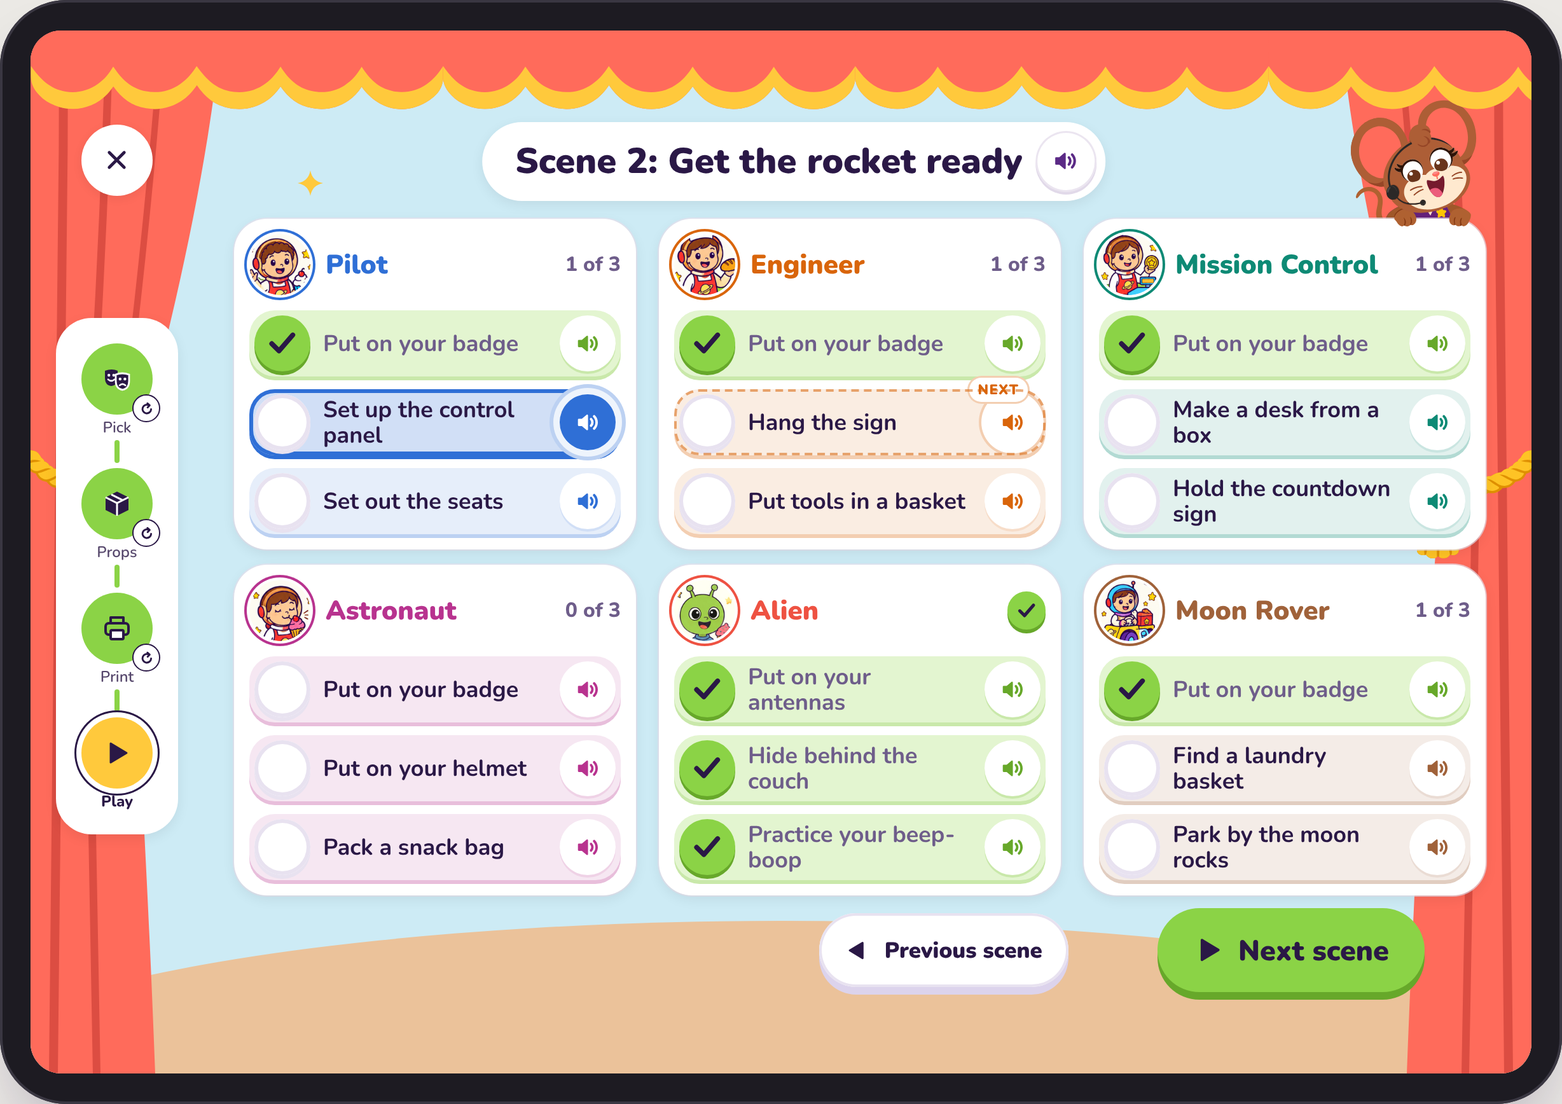
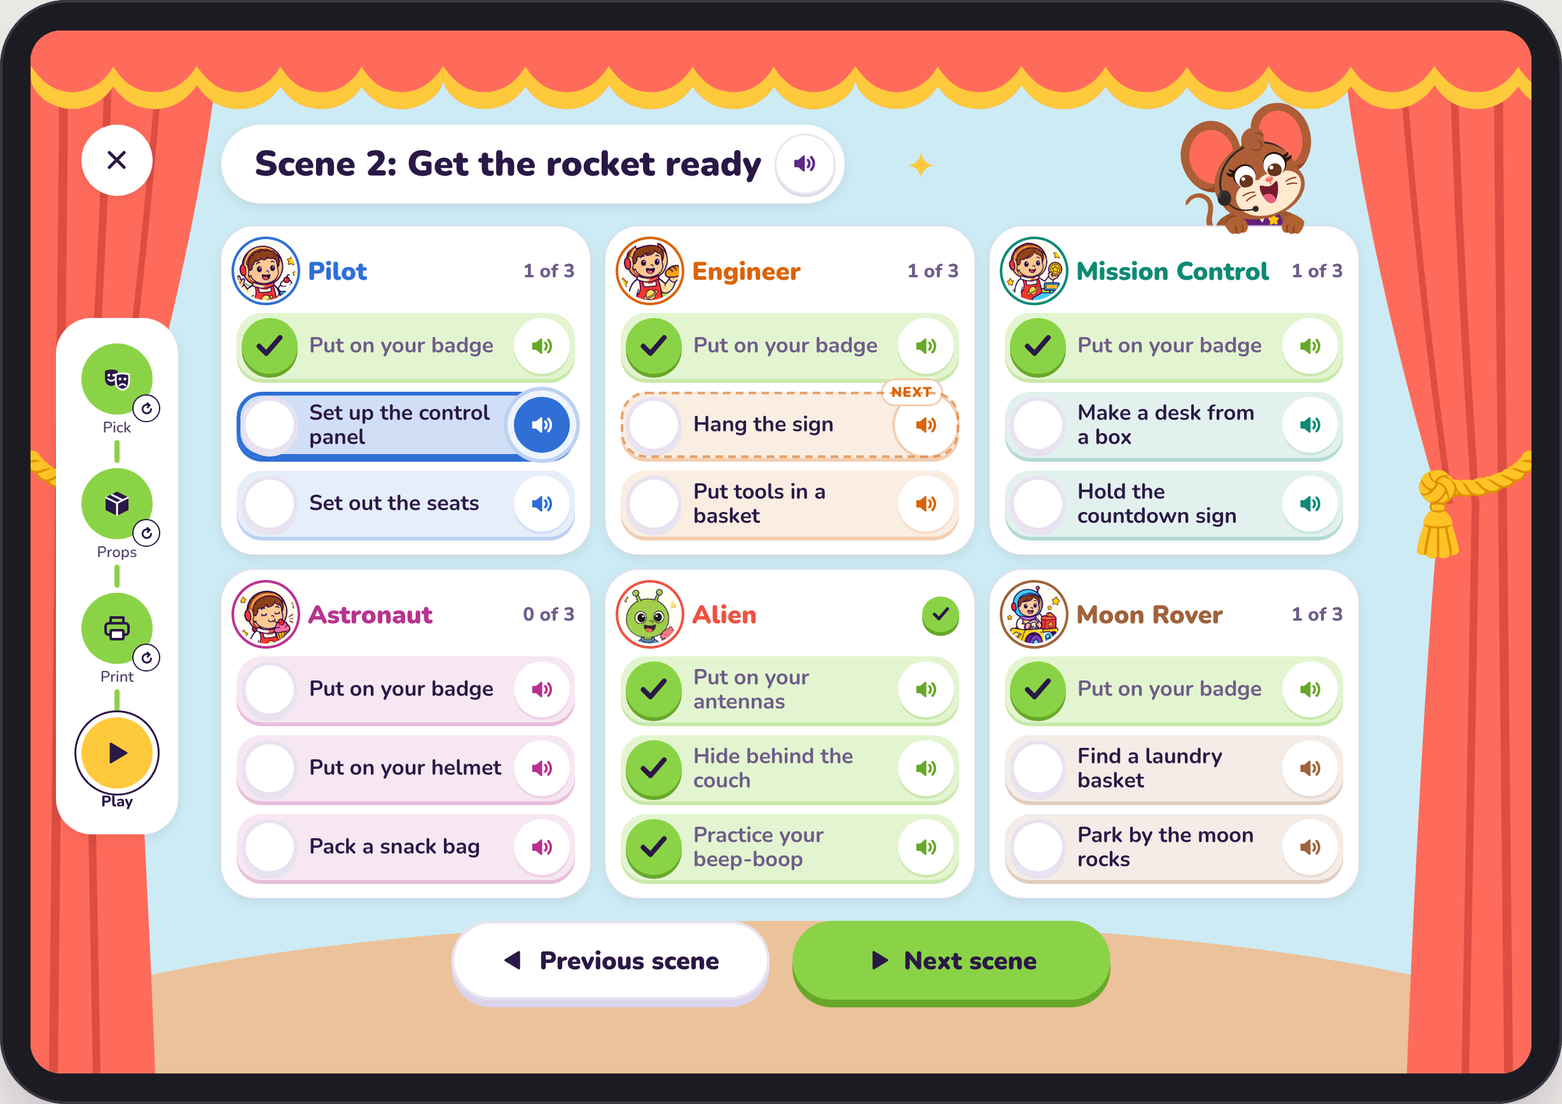
Mockups v2: Nutmeg on a card (iPad), checklist shelf (iPhone), centered equal Prev/Next
Claude-Session: https://claude.ai/code/session_01FLwTkaKeaGmxKG6tqX7cE2

Changed region(s): [[0.1238, 0.0933, 0.9593, 0.9332]]

diff --git a/design/mockups/checklist-scenes/index.html b/design/mockups/checklist-scenes/index.html
@@ -84,6 +84,7 @@ body{background:#ECEAE6;font-family:"SF Pro Rounded",ui-rounded,"Nunito",system-
 .tspk svg{width:44%;height:44%}
 
 /* checklist card */
+.card.pinned{box-shadow:none!important;border:1.5px solid var(--line)}
 .card{position:absolute;z-index:10;background:#fff;border-radius:26px;box-shadow:0 3px 10px rgba(0,0,0,.07),0 0 0 1px rgba(232,226,240,.7)}
 .ch{display:flex;align-items:center}
 .ch .pic{border-radius:50%;background:#fff;flex:none;box-shadow:0 0 0 2px #fff,0 0 0 4px var(--tint)}
@@ -115,6 +116,7 @@ body{background:#ECEAE6;font-family:"SF Pro Rounded",ui-rounded,"Nunito",system-
 .btn svg{flex:none}
 .btn.next{background:var(--lime);box-shadow:0 6px 0 var(--lime-shade)}
 .btn.prev{background:#fff;box-shadow:0 6px 0 #DCD3EC,inset 0 0 0 2px var(--line);color:var(--ink)}
+.phone .btn.glow{box-shadow:0 6px 0 var(--lime-shade),0 0 0 3px rgba(255,255,255,.9),0 0 0 6px rgba(139,211,70,.45)}
 .btn.glow{box-shadow:0 6px 0 var(--lime-shade),0 0 0 6px rgba(255,255,255,.9),0 0 0 10px rgba(139,211,70,.45)}
 
 /* peek */
@@ -181,40 +183,30 @@ body{background:#ECEAE6;font-family:"SF Pro Rounded",ui-rounded,"Nunito",system-
   <div class="grid">
     <div class="col" id="c1"><div class="ipad" id="s1"><div class="screen"></div></div>
       <div class="num">Screen 1 · iPad · 2 kids · setup</div>
-      <div class="cap"><h2>One checklist per role, side by side</h2>
-      <p>The scene title (with its 🔊) sits on top; the two role cards share the stage. Each item has a checkbox on the left and a 🔊 on the right (44 pt or more). Pilot's "Set up the control panel" is being read (filled 🔊, a solid outline in the role color); Engineer's "Hang the sign" was tapped while she talked, so it's queued (dashed). Nutmeg peeks over the top-right corner of the card area with her focus eyes on the rows. ◀ Previous scene is a white secondary pill beside the green ▶ Next scene.</p></div></div>
+      <div class="cap"><h2>One checklist per role, Nutmeg on a card</h2>
+      <p>The scene title (with its 🔊) sits top-left; the two role cards share the stage. Each item: checkbox left, 🔊 right (44 pt or more). Pilot's "Set up the control panel" is being read (filled 🔊, solid outline); Engineer's "Hang the sign" was tapped while she talked, so it's queued (dashed NEXT). Nutmeg peeks over the top edge of the right-hand card, paws on it, focus eyes on the rows. ◀ Previous scene and ▶ Next scene are one centered pair, same size and shape.</p></div></div>
     <div class="col" id="c2"><div class="ipad" id="s2"><div class="screen"></div></div>
       <div class="num">Screen 2 · iPad · 6 kids · setup</div>
-      <div class="cap"><h2>Two rows of three, same corner for Nutmeg</h2>
-      <p>The cards get the denser size (picture 48, text 18, rows 52 pt, checkbox and 🔊 still 44 pt). Nutmeg's peek fits in the top-right corner at a smaller size, on the top edge of the third card, under the valance. The ▶ / ◀ buttons move into the bottom-right corner below the grid. Alien's card is finished: its header shows the green check.</p></div></div>
+      <div class="cap"><h2>Two rows of three, Nutmeg on the top-right card</h2>
+      <p>Cards shrink to 290 pt so the grid clears the right curtain (picture 46, text 17, rows 52 pt, checkbox and 🔊 still 44 pt). Nutmeg sits on the top-right card (Mission Control): the only top-row card with no title above it, and her head fits under the valance. The centered button pair sits under the grid. Alien's card is finished: its header shows the green check.</p></div></div>
   </div>
   <div class="grid">
     <div class="col" id="c3"><div class="ipad" id="s3"><div class="screen"></div></div>
       <div class="num">Screen 3 · iPad · scenario moment</div>
       <div class="cap"><h2>Every box ticked: Nutmeg takes center stage</h2>
-      <p>The cards fold into a strip of role pictures with green checks ("All done!"). Nutmeg comes out whole and big, standing on the floor in the middle, and says the short "Pretend that…" line, shown beside her in a speech card with the hear-again button (the control bar's icon). The ▶ Next scene button gets a soft halo because now it's time to act it out and move on.</p></div></div>
-    <div class="col alt" id="c7"><div class="ipad" id="s7"><div class="screen"></div></div>
-      <div class="num">Alternate A · iPad · 6 kids · Nutmeg bottom-left</div>
-      <div class="cap"><h2>Option: she peeks up over the stage edge, under the rail</h2>
-      <p>Instead of the top-right corner, Nutmeg peeks up from below the front of the stage in the empty corner under the step rail, like a prompter. She never sits on a card or near the valance, but the corner under the rail is short (the rail ends at 655 pt), so she stays small (about 110 pt), she's far from the cards on the right, and she looks up instead of down at the rows.</p></div></div>
-  </div>
-  <div class="grid">
+      <p>The cards fold into a strip of role pictures with green checks ("All done!"). Nutmeg hops off the card and comes out whole and big on the floor, saying the short "Pretend that…" line, shown in a speech card with the hear-again button. The same centered button pair; ▶ Next scene gets a soft halo.</p></div></div>
     <div class="col phonecol" id="c4"><div class="phone" id="s4"><div class="screen"></div></div>
-      <div class="num">Screen 4 · iPhone · 2 kids</div>
-      <div class="cap"><h2>Cards stacked, Nutmeg on the top edge</h2>
-      <p>The title wraps to two lines on the left; Nutmeg peeks over the top edge of the card area on the right (the same corner as the iPad). Two cards fit without scrolling. ◀ is a 56 pt circle, ▶ Next scene the green pill.</p></div></div>
+      <div class="num">Screen 4 · iPhone · 2 kids · setup</div>
+      <div class="cap"><h2>Setup: the checklists live in a shelf</h2>
+      <p>Like the chat shelf (round 40): edge to edge, attached to the bottom, top corners rounded, white. Nutmeg peeks over the shelf's top edge (her live head, so no face avatar in the header). Header: the scene title and its 🔊. The role cards (pinned-card style: white with a hairline) fill the shelf; two fit without scrolling. The Prev / Next pair is pinned to the shelf's bottom.</p></div></div>
     <div class="col phonecol" id="c5"><div class="phone" id="s5"><div class="screen"></div></div>
       <div class="num">Screen 5 · iPhone · 6 kids (scrolled)</div>
-      <div class="cap"><h2>The list scrolls under her paws</h2>
-      <p>Nutmeg is pinned to the top edge of the scroll area; the cards slide under her paws. Here it's scrolled to Mission Control / Astronaut; the scroll bar and the cut-off card show there's more. Title and buttons stay put.</p></div></div>
+      <div class="cap"><h2>6 kids: the cards scroll inside the shelf</h2>
+      <p>The shelf, Nutmeg, the title and the buttons stay put; only the card list scrolls (scroll bar, soft fades at both ends, a cut-off card). Here it's scrolled to Mission Control / Astronaut.</p></div></div>
     <div class="col phonecol" id="c6"><div class="phone" id="s6"><div class="screen"></div></div>
       <div class="num">Screen 6 · iPhone · scenario</div>
-      <div class="cap"><h2>Big Nutmeg, short line, done strip</h2>
-      <p>The stage grows: Nutmeg fills the top, the line card with 🔊 sits under her, the finished roles collapse into a strip, and ▶ Next scene glows.</p></div></div>
-    <div class="col phonecol alt" id="c8"><div class="phone" id="s8"><div class="screen"></div></div>
-      <div class="num">Alternate B · iPhone · 6 kids</div>
-      <div class="cap"><h2>Option: she peeks up from the bottom bar</h2>
-      <p>Nutmeg sits in the bottom-left corner beside ◀ / ▶, looking up; the cards scroll behind her head. The title gets the full width (one line), but her head covers the start of the rows as they scroll past, so this costs more than it saves.</p></div></div>
+      <div class="cap"><h2>Scenario: the shelf slides away</h2>
+      <p>Transition: when the last box is ticked the shelf slides down off the screen and Nutmeg grows from her peek back to her whole body on the stage (one stageMove spring). The line card with 🔊 sits under her, the roles collapse into a done strip, and the same button pair glows. ▶ Next scene: the shelf slides back up with the next scene's cards and she drops back to her peek.</p></div></div>
   </div>
 </div>
 
@@ -242,7 +234,8 @@ function pale(c,t){const [r,g,b]=hex(c);return `rgb(${[r,g,b].map(v=>Math.round(
 // sizes: L = iPad 2 kids, M = iPad 6 kids, S = iPhone
 const SZ = {
   L:{w:400,pad:18,pic:72,name:28,hgap:16,row:70,chk:50,spk:50,tx:22,gap:12,rpad:9,ig:14},
-  M:{w:316,pad:12,pic:48,name:21,hgap:12,row:52,chk:44,spk:44,tx:18,gap:7,rpad:4,ig:10},
+  M:{w:290,pad:12,pic:46,name:20,hgap:10,row:52,chk:44,spk:44,tx:17,gap:7,rpad:4,ig:9},
+  P:{w:369,pad:10,pic:34,name:19,hgap:6,row:44,chk:44,spk:44,tx:17,gap:2,rpad:0,ig:10},
   S:{w:369,pad:12,pic:40,name:20,hgap:10,row:48,chk:44,spk:44,tx:17.5,gap:3,rpad:2,ig:10},
 };
 function card(id,size,x,y,opt={}){
@@ -254,7 +247,7 @@ function card(id,size,x,y,opt={}){
      <span class="chk" style="width:${s.chk}px;height:${s.chk}px"><svg viewBox="0 0 24 24"><use href="#i-check-ink"/></svg></span>
      <span class="tx" style="font-size:${s.tx}px">${t}</span>
      <span class="spk" style="width:${s.spk}px;height:${s.spk}px"><svg viewBox="0 0 24 24"><use href="#spk"/></svg></span></div>`).join('');
-  return `<div class="card" style="left:${x}px;top:${y}px;width:${s.w}px;padding:${s.pad}px;--tint:${r.c};--pale:${pale(r.c,.12)};--pale2:${pale(r.c,.32)};--pale3:${pale(r.c,.22)}${opt.h?`;height:${opt.h}px`:''}">
+  return `<div class="card ${opt.cls||''}" style="left:${x}px;top:${y}px;width:${s.w}px;padding:${s.pad}px;--tint:${r.c};--pale:${pale(r.c,.12)};--pale2:${pale(r.c,.32)};--pale3:${pale(r.c,.22)}${opt.h?`;height:${opt.h}px`:''}">
     <div class="ch" style="gap:${s.hgap}px;margin-bottom:${s.hgap}px"><img class="pic" src="${IMG+r.img}" style="width:${s.pic}px;height:${s.pic}px"><b style="font-size:${s.name}px">${r.name}</b>
     ${all?`<span class="alldone" style="width:${s.pic*0.62}px;height:${s.pic*0.62}px"><svg viewBox="0 0 24 24"><use href="#i-check-ink"/></svg></span>`:`<span class="count" style="font-size:${s.tx-2}px">${n} of ${items.length}</span>`}</div>
     <div class="items" style="gap:${s.gap+3}px">${rows}</div></div>`;
@@ -279,15 +272,18 @@ function rail(dir,style){
     const now=i===3; return `${i?'<div class="conn"></div>':''}<div class="rstep ${now?'now':'done'}"><div class="rdot"><svg viewBox="0 0 24 24"><use href="#${ic}"/></svg>${now?'':'<span class="redo"><svg viewBox="0 0 12 12"><use href="#i-redo"/></svg></span>'}</div><b>${l}</b></div>`}).join('')}</div>`;
 }
 function spk(size){return `<span class="tspk" style="width:${size}px;height:${size}px"><svg viewBox="0 0 24 24"><use href="#spk"/></svg></span>`}
-function btnNext(x,y,h,glow,w){return `<div class="btn next ${glow?'glow':''}" style="left:${x}px;top:${y}px;height:${h}px;${w?`width:${w}px;`:`padding:0 ${h*0.42}px;`}font-size:${h*0.34}px"><svg viewBox="0 0 24 24" style="width:${h*0.36}px;height:${h*0.36}px"><use href="#i-play-ink"/></svg>Next scene</div>`}
-function btnPrev(x,y,h,label,w){return `<div class="btn prev" style="left:${x}px;top:${y}px;height:${h}px;${label?`padding:0 ${h*0.36}px;`:`width:${h}px;`}font-size:${h*0.3}px"><svg viewBox="0 0 24 24" style="width:${h*0.32}px;height:${h*0.32}px"><use href="#i-prev-ink"/></svg>${label||''}</div>`}
+// Prev / Next: one centered pair, same size and shape (Next green, Previous white).
+function navPair(sw,y,w,h,gap,glow){
+  const x0=(sw-(2*w+gap))/2, fs=h*0.32, ic=h*0.32;
+  const b=(cls,x,icon,label)=>`<div class="btn ${cls}" style="left:${x}px;top:${y}px;width:${w}px;height:${h}px;font-size:${fs}px;gap:${h*0.16}px"><svg viewBox="0 0 24 24" style="width:${ic}px;height:${ic}px"><use href="#${icon}"/></svg>${label}</div>`;
+  return b('prev',x0,'i-prev-ink','Previous scene') + b('next'+(glow?' glow':''),x0+w+gap,'i-play-ink','Next scene');
+}
 
 // ---------- iPad stage ----------
 function ipadStage(){
   const V=61.5;
   return `<div class="floor" style="left:-80px;width:1340px;top:700px;height:260px"></div>
-    <svg class="spark" style="left:210px;top:110px;width:20px;height:20px"><use href="#sparkle"/></svg>
-    <svg class="spark" style="left:960px;top:640px;width:24px;height:24px"><use href="#sparkle"/></svg>
+    <svg class="spark" style="left:690px;top:96px;width:20px;height:20px"><use href="#sparkle"/></svg>
     <svg class="curtain" style="left:0;width:150px;height:820px" viewBox="0 0 150 820" preserveAspectRatio="none"><use href="#curtain-pad"/></svg>
     <svg class="curtain r" style="right:0;width:150px;height:820px" viewBox="0 0 150 820" preserveAspectRatio="none"><use href="#curtain-pad"/></svg>
     <img class="tie" src="${IMG}tieback-left.svg" style="left:-6px;top:330px;width:96px">
@@ -296,8 +292,8 @@ function ipadStage(){
     <div class="xbtn" style="left:40px;top:${V+12}px;width:56px;height:56px"><svg viewBox="0 0 24 24"><use href="#i-x"/></svg></div>
     ${rail('v','left:20px;top:226px')}`;
 }
-function ipadTitle(cx,y,text,fs=30){
-  return `<div class="title" id="t" style="left:${cx}px;top:${y}px;transform:translateX(-50%);padding:7px 7px 7px 26px;font-size:${fs}px"><span class="t">${text}</span>${spk(48)}</div>`;
+function ipadTitle(x,y,text,fs=30,center=false){
+  return `<div class="title" style="left:${x}px;top:${y}px;${center?'transform:translateX(-50%);':''}padding:7px 7px 7px 26px;font-size:${fs}px"><span class="t">${text}</span>${spk(48)}</div>`;
 }
 
 // ---------- iPhone stage ----------
@@ -315,61 +311,60 @@ function phoneStage(){
 const $=id=>document.querySelector('#'+id+' .screen');
 const TITLE='Scene 2: Get the rocket ready';
 
-// 1. iPad, 2 kids
-$('s1').innerHTML = ipadStage() + ipadTitle(648,80,TITLE)
-  + card('pilot','L',224,182) + card('engineer','L',648,182)
-  + peek(918,182,122,{turn:-9})
-  + btnPrev(560,676,64,'Previous scene') + btnNext(834,670,76);
+// 1. iPad, 2 kids: Nutmeg on the Engineer card (right)
+$('s1').innerHTML = ipadStage() + ipadTitle(224,84,TITLE)
+  + card('pilot','L',224,206) + card('engineer','L',648,206)
+  + peek(866,206,138,{turn:-9})
+  + navPair(1180,676,264,68,18);
 
-// 2. iPad, 6 kids
+// 2. iPad, 6 kids: Nutmeg on the top-right card (Mission Control)
 {
-  const xs=[160,494,828], y1=148, y2=420, h=260;
-  $('s2').innerHTML = ipadStage() + ipadTitle(600,72,TITLE,28)
+  const xs=[150,452,754], y1=154, y2=424, h=258;
+  $('s2').innerHTML = ipadStage() + ipadTitle(150,74,TITLE,28)
     + card('pilot','M',xs[0],y1,{h}) + card('engineer','M',xs[1],y1,{h}) + card('mission','M',xs[2],y1,{h})
     + card('astro','M',xs[0],y2,{h}) + card('alien','M',xs[1],y2,{h}) + card('rover','M',xs[2],y2,{h})
-    + peek(1040,y1,100,{turn:-9})
-    + btnPrev(620,694,58,'Previous scene') + btnNext(886,690,66);
+    + peek(906,y1,104,{turn:-9})
+    + navPair(1180,700,250,62,18);
 }
 
 // 3. iPad scenario
 {
   const ids=['pilot','engineer','mission','astro','alien','rover'];
-  $('s3').innerHTML = ipadStage() + ipadTitle(648,80,TITLE)
-    + `<div style="position:absolute;left:250px;top:688px;width:420px;height:44px;border-radius:50%;background:rgba(217,169,123,.75);z-index:5"></div>`
-    + `<img class="nut" src="${IMG}nutmeg-idle-talking.png" style="left:270px;top:168px;height:540px">`
-    + `<div class="line" style="left:700px;top:196px;width:420px;padding:28px 30px 26px">
+  $('s3').innerHTML = ipadStage() + ipadTitle(224,84,TITLE)
+    + `<div style="position:absolute;left:268px;top:630px;width:380px;height:40px;border-radius:50%;background:rgba(217,169,123,.75);z-index:5"></div>`
+    + `<img class="nut" src="${IMG}nutmeg-idle-talking.png" style="left:288px;top:166px;height:486px">`
+    + `<div class="line" style="left:690px;top:180px;width:430px;padding:26px 30px 24px">
          <div class="tail" style="left:-12px;top:120px"></div>
-         <p style="font-size:27px;position:relative">Pretend that the rocket is blasting off… uh-oh, the control panel is beeping! <em>Everyone, do your job to get the rocket safely into space!</em></p>
-         <div style="display:flex;align-items:center;gap:14px;margin-top:20px;position:relative"><span class="hear" style="width:64px;height:64px"><img src="${IMG}icon-hear-again.svg"></span><span style="font-size:18px;font-weight:800;color:var(--ink-muted)">Hear it again</span></div></div>`
-    + `<div class="done-strip" style="left:700px;top:572px;width:420px;justify-content:center;padding:10px 14px;gap:11px">
+         <p style="font-size:26px;position:relative">Pretend that the rocket is blasting off… uh-oh, the control panel is beeping! <em>Everyone, do your job to get the rocket safely into space!</em></p>
+         <div style="display:flex;align-items:center;gap:14px;margin-top:18px;position:relative"><span class="hear" style="width:64px;height:64px"><img src="${IMG}icon-hear-again.svg"></span><span style="font-size:18px;font-weight:800;color:var(--ink-muted)">Hear it again</span></div></div>`
+    + `<div class="done-strip" style="left:690px;top:556px;width:430px;justify-content:center;padding:10px 14px;gap:11px">
          <span class="lab" style="font-size:18px"><svg viewBox="0 0 24 24" style="width:22px;height:22px"><path d="M5 12.5 L10 17.5 L19.5 6.5" stroke="#67A82A" stroke-width="3.4" fill="none" stroke-linecap="round" stroke-linejoin="round"/></svg>All done!</span>
          ${ids.map(i=>`<span class="mini" style="--tint:${ROLES[i].c};width:38px;height:38px"><img src="${IMG+ROLES[i].img}"><i><svg viewBox="0 0 24 24"><use href="#i-check-ink"/></svg></i></span>`).join('')}</div>`
-    + btnPrev(560,676,64,'Previous scene') + btnNext(834,670,76,true);
+    + navPair(1180,690,264,68,18,true);
 }
 
-// 4. iPhone, 2 kids
-function phoneTitle(top,right){
-  return `<div class="title wrap" style="left:12px;top:${top}px;width:${right-12}px;padding:8px 8px 8px 16px;font-size:21px"><span class="t">${TITLE}</span>${spk(44)}</div>`;
+// iPhone: the checklist shelf (like the chat shelf: edge to edge, top corners rounded, under the top bar),
+// Nutmeg's peek on its top edge, the cards scroll inside, the Prev/Next pair pinned at its bottom.
+const SHELF=262;
+function shelf(inner,scrolled){
+  const top=SHELF, listTop=top+64, listBottom=752;
+  return `<div style="position:absolute;left:0;right:0;top:${top}px;bottom:0;background:#fff;border-radius:28px 28px 0 0;box-shadow:0 -3px 10px rgba(0,0,0,.07);z-index:10"></div>
+    <div class="title" style="left:16px;top:${top+12}px;width:262px;padding:0;box-shadow:none;background:none;white-space:normal;font-size:19px;gap:8px;z-index:20"><span class="t" style="flex:1">${TITLE}</span>${spk(44)}</div>
+    <div style="position:absolute;left:0;top:${listTop}px;width:393px;height:${listBottom-listTop}px;overflow:hidden;z-index:11"><div style="position:relative">${inner}</div></div>
+    ${scrolled?`<div class="scrollbar" style="right:4px;top:${listTop+120}px;height:110px"></div>
+      <div class="fade" style="left:0;right:0;top:${listTop}px;height:14px;background:linear-gradient(#fff,rgba(255,255,255,0))"></div>`:''}
+    <div class="fade" style="left:0;right:0;top:${listBottom-16}px;height:16px;background:linear-gradient(rgba(255,255,255,0),#fff)"></div>
+    ${peek(268,top,112,{turn:-9,zb:9,zf:21})}`;
 }
-$('s4').innerHTML = phoneStage() + phoneTitle(168,258)
-  + card('pilot','S',12,252) + card('engineer','S',12,498)
-  + peek(272,252,104,{turn:-9})
-  + btnPrev(12,756,56) + btnNext(80,756,56,false,301);
+const pin={cls:'pinned'};
+$('s4').innerHTML = phoneStage()
+  + shelf(card('pilot','P',12,0,pin)+card('engineer','P',12,213,pin),false)
+  + `<div style="position:absolute;inset:0;z-index:22;pointer-events:none">${navPair(393,762,176,54,12)}</div>`;
+$('s5').innerHTML = phoneStage()
+  + shelf(card('engineer','P',12,-120,pin)+card('mission','P',12,93,pin)+card('astro','P',12,306,pin),true)
+  + `<div style="position:absolute;inset:0;z-index:22;pointer-events:none">${navPair(393,762,176,54,12)}</div>`;
 
-// 5. iPhone, 6 kids, scrolled
-{
-  const top=252, bottom=742;
-  $('s5').innerHTML = phoneStage() + phoneTitle(168,258)
-    + `<div style="position:absolute;left:0;top:${top}px;width:393px;height:${bottom-top}px;overflow:hidden;z-index:10">
-         <div style="position:relative">
-           ${card('engineer','S',12,-170)}${card('mission','S',12,72)}${card('astro','S',12,314)}
-         </div></div>`
-    + `<div class="scrollbar" style="right:4px;top:${top+150}px;height:120px"></div>`
-    + peek(272,top,104,{turn:-9,zb:9,zf:12})
-    + btnPrev(12,756,56) + btnNext(80,756,56,false,301);
-}
-
-// 6. iPhone scenario
+// 6. iPhone scenario (the shelf has slid away; Nutmeg grows back onto the stage)
 {
   $('s6').innerHTML = phoneStage()
     + `<div class="title wrap" style="left:12px;top:168px;width:369px;padding:8px 8px 8px 16px;font-size:19px;z-index:21"><span class="t" style="flex:1">${TITLE}</span>${spk(44)}</div>`
@@ -383,31 +378,7 @@ $('s4').innerHTML = phoneStage() + phoneTitle(168,258)
     + `<div class="done-strip" style="left:50%;transform:translateX(-50%);top:694px;padding:6px 16px;gap:12px">
          <span class="lab" style="font-size:16px"><svg viewBox="0 0 24 24" style="width:18px;height:18px"><path d="M5 12.5 L10 17.5 L19.5 6.5" stroke="#67A82A" stroke-width="3.4" fill="none" stroke-linecap="round" stroke-linejoin="round"/></svg>All done!</span>
          ${['pilot','engineer'].map(i=>`<span class="mini" style="--tint:${ROLES[i].c};width:30px;height:30px"><img src="${IMG+ROLES[i].img}"><i><svg viewBox="0 0 24 24"><use href="#i-check-ink"/></svg></i></span>`).join('')}</div>`
-    + btnPrev(12,756,56) + btnNext(80,756,56,true,301);
-}
-
-// 7. Alternate A: iPad 6 kids, Nutmeg bottom-left
-{
-  const xs=[184,516,848], y1=144, y2=414, h=260;
-  $('s7').innerHTML = ipadStage() + ipadTitle(660,74,TITLE,28)
-    + `<div style="position:absolute;left:0;top:750px;width:1180px;height:70px;background:var(--floor);box-shadow:inset 0 6px 0 var(--floor-edge);z-index:13"></div>`
-    + card('pilot','M',xs[0],y1,{h}) + card('engineer','M',xs[1],y1,{h}) + card('mission','M',xs[2],y1,{h})
-    + card('astro','M',xs[0],y2,{h}) + card('alien','M',xs[1],y2,{h}) + card('rover','M',xs[2],y2,{h})
-    + peek(8,752,112,{face:'talking',turn:3,zb:12,zf:14})
-    + btnPrev(640,688,56,'Previous scene') + btnNext(906,684,62);
-}
-
-// 8. Alternate B: iPhone 6 kids, Nutmeg bottom-left over the bottom bar
-{
-  const top=228, bottom=744;
-  $('s8').innerHTML = phoneStage()
-    + `<div class="title wrap" style="left:12px;top:168px;width:369px;padding:8px 8px 8px 16px;font-size:19px"><span class="t" style="flex:1">${TITLE}</span>${spk(44)}</div>`
-    + `<div style="position:absolute;left:0;top:${top}px;width:393px;height:${bottom-top}px;overflow:hidden;z-index:10">
-         <div style="position:relative">${card('engineer','S',12,-120)}${card('mission','S',12,122)}${card('astro','S',12,364)}</div></div>`
-    + `<div class="scrollbar" style="right:4px;top:${top+150}px;height:110px"></div>`
-    + `<div style="position:absolute;left:0;top:742px;width:393px;height:110px;background:var(--floor);box-shadow:inset 0 6px 0 var(--floor-edge);z-index:13"></div>`
-    + peek(4,744,118,{face:'talking',turn:3,zb:12,zf:14})
-    + btnPrev(130,762,56) + btnNext(198,762,56,false,183);
+    + navPair(393,762,176,54,12,true);
 }
 </script>
 </body>
